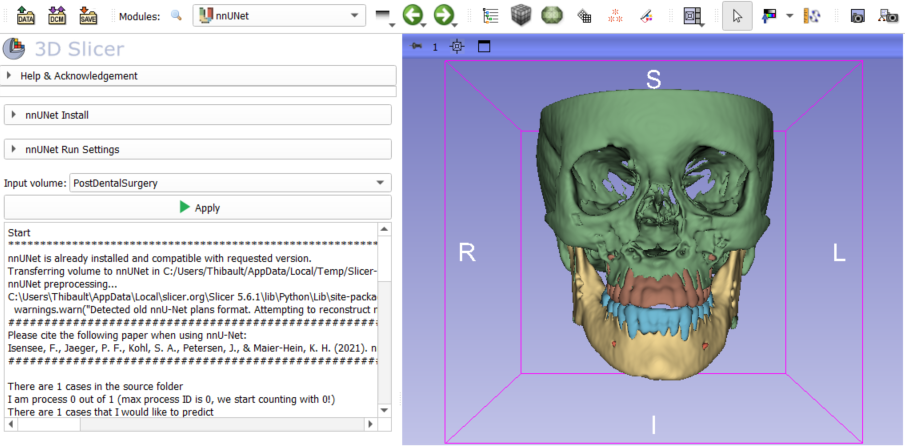
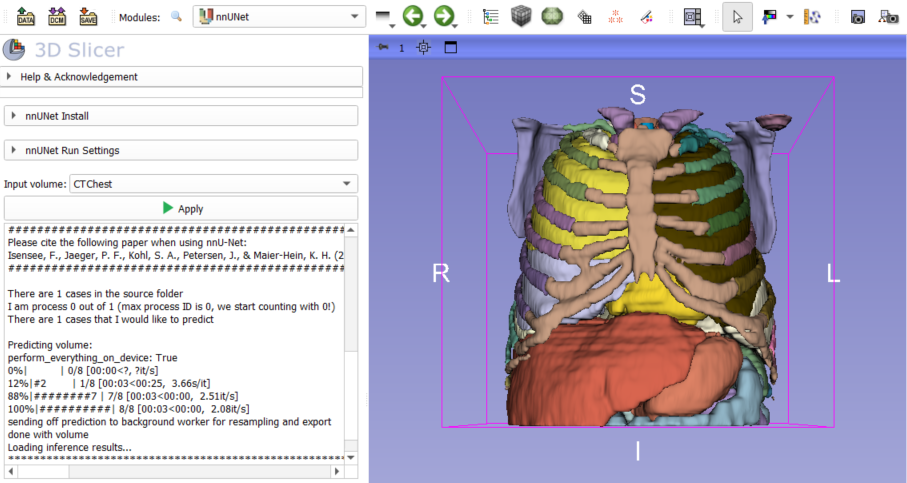
DOC: Update README and screen shots to use Total Segmentator

diff --git a/README.md b/README.md
@@ -68,8 +68,8 @@ The provided model path should contain the nnUNet 'dataset.json' file.
 
 > [!NOTE]
 > To test this extension, you can download the 
-> <a href="https://github.com/gaudot/SlicerDentalSegmentator/releases">Dental Segmentator NNUNet weights</a> 
-> and use the `CBCTDentalSurgery` Sample. 
+> <a href="https://github.com/wasserth/TotalSegmentator/releases">Total Segmentator NNUNet weights</a> 
+> and use the `CTChest` Sample. 
 
 
 > [!WARNING]
